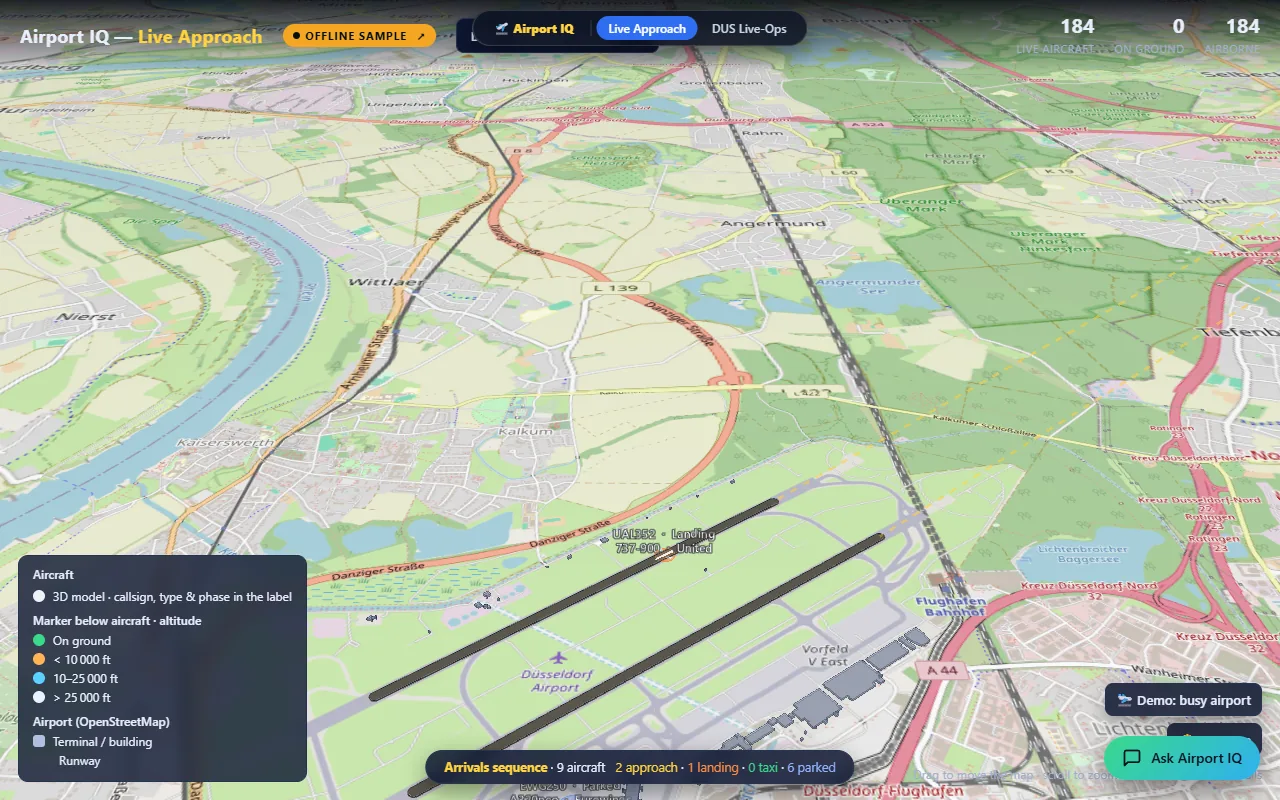
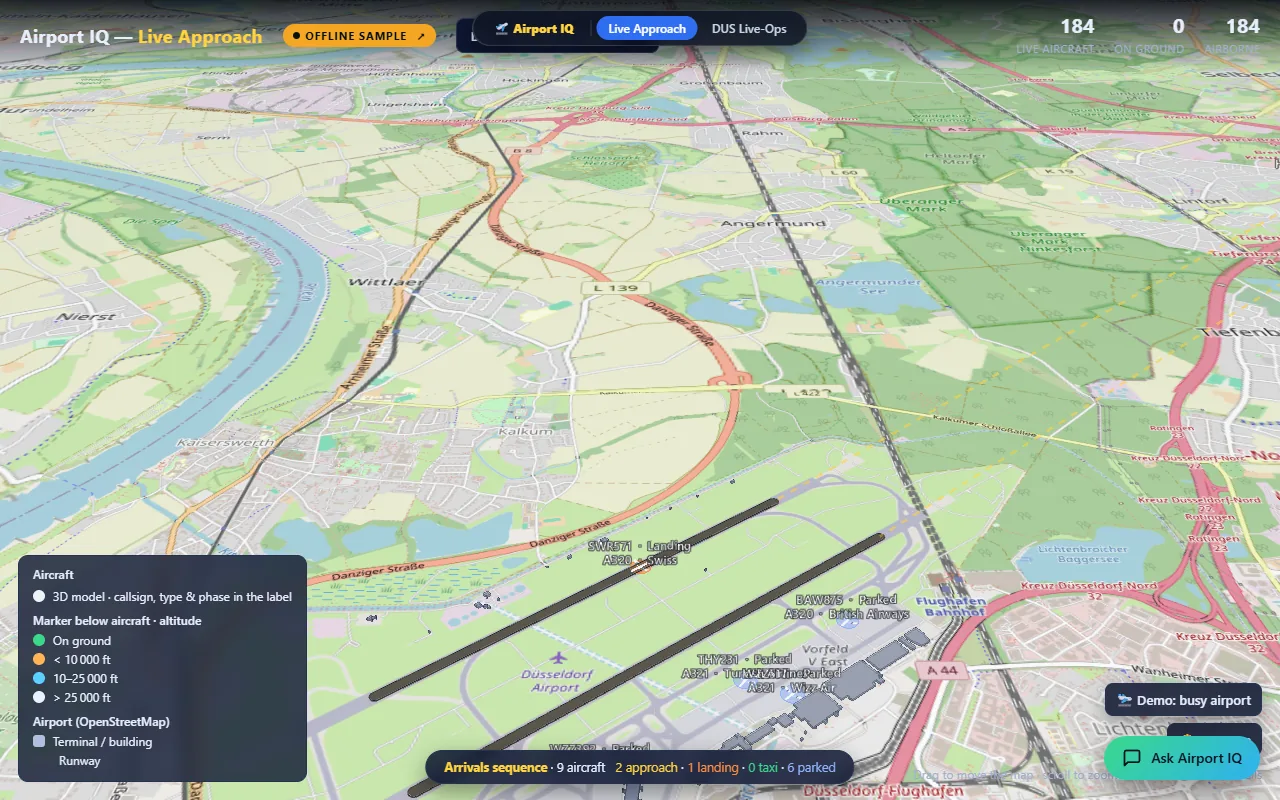
feat(docs): add previews and demo GIFs for all 15 apps
Phase 1e. 13 preview stills and 7 demo GIFs, 24.5 MB total, every file inside
the 25 MB budget and committed once.

The six Rayfin apps gate their whole UI behind a sign-in card, so serving dist
photographed a login screen. rayfin up is not the way past that - it prompts for
a Fabric workspace to deploy to, and Phase 0 removed that name deliberately. The
capture harness stubs bootstrapAuth at build time and reverts it in a finally
block, so no tenant can reach a public image.

maritime, flood and paragliding cannot render from a clean clone: the derived
terrain is excluded by design and they show their own 'terrain missing' card.
paragliding's geodata pipeline was run locally (~360 MB, gitignored) and it is
captured live; maritime and flood reuse media their authors made when the
terrain was present.

Every frame was reviewed. That caught a screenshot of an error card, DOOM's DOS
boot log instead of gameplay, a Klimaspirale frozen on a single year, a Jump &
Run demo ending on GAME OVER, and three GIFs opening on blank frames.

diff --git a/README.md b/README.md
@@ -16,11 +16,11 @@ you can deploy into your own workspace with one command.
 | | App | What it does |
 |---|---|---|
 | <img src="docs/previews/airport-iq.webp" width="220" alt="Airport IQ - Live Approach preview"> | **[Airport IQ - Live Approach](industry/airport-iq/)** | Live approach and ground operations on a photoreal 3D airport twin. |
-| <img src="docs/previews/_placeholder.webp" width="220" alt="Flood Insights preview"> | **[Flood Insights](industry/flood-insights/)** | Flood risk and gauge levels on a 3D terrain twin, with an IBCS Power BI report. |
+| <img src="docs/previews/flood-insights.webp" width="220" alt="Flood Insights preview"> | **[Flood Insights](industry/flood-insights/)** | Flood risk and gauge levels on a 3D terrain twin, with an IBCS Power BI report. |
 | <img src="docs/previews/_placeholder.webp" width="220" alt="Harbour Pulse preview"> | **[Harbour Pulse](industry/harbour-pulse/)** | Real-time ferry operations in Sydney Harbour on an Eventhouse-backed 3D map. |
 | <img src="docs/previews/_placeholder.webp" width="220" alt="Helsinki Public Transport preview"> | **[Helsinki Public Transport](industry/helsinki-public-transport/)** | Live tram and bus positions from the HSL feed, streamed through Real-Time Intelligence. |
-| <img src="docs/previews/_placeholder.webp" width="220" alt="Maritime Insights preview"> | **[Maritime Insights](industry/maritime-insights/)** | Vessel movements, port calls and cargo flows on a live maritime map. |
-| <img src="docs/previews/_placeholder.webp" width="220" alt="Paragliding Insights preview"> | **[Paragliding Insights](games-and-learn/paragliding-insights/)** | Photoreal 3D flight map of the Allgaeu Alps with real IGC tracks and live traffic. |
+| <img src="docs/previews/maritime-insights.webp" width="220" alt="Maritime Insights preview"> | **[Maritime Insights](industry/maritime-insights/)** | Vessel movements, port calls and cargo flows on a live maritime map. |
+| <img src="docs/previews/paragliding-insights.webp" width="220" alt="Paragliding Insights preview"> | **[Paragliding Insights](games-and-learn/paragliding-insights/)** | Photoreal 3D flight map of the Allgaeu Alps with real IGC tracks and live traffic. |
 
 ### 📊 Analytical Apps
 
@@ -37,9 +37,9 @@ Apps that inspect, document or administer the data platform itself.
 
 | | App | What it does |
 |---|---|---|
-| <img src="docs/previews/_placeholder.webp" width="220" alt="Data Catalog preview"> | **[Data Catalog](fabric-admin/data-catalog/)** | A browsable catalogue of every item in your Fabric tenant, with lineage and ownership. |
-| <img src="docs/previews/_placeholder.webp" width="220" alt="Governance Hub preview"> | **[Governance Hub](fabric-admin/governance-hub/)** | Tenant settings, capacity and access posture in one place, collected on a schedule. |
-| <img src="docs/previews/_placeholder.webp" width="220" alt="Power BI Fixer preview"> | **[Power BI Fixer](fabric-admin/pbi-fixer/)** | Scans a semantic model and report, finds what is broken, and fixes it. |
+| <img src="docs/previews/data-catalog.webp" width="220" alt="Data Catalog preview"> | **[Data Catalog](fabric-admin/data-catalog/)** | A browsable catalogue of every item in your Fabric tenant, with lineage and ownership. |
+| <img src="docs/previews/governance-hub.webp" width="220" alt="Governance Hub preview"> | **[Governance Hub](fabric-admin/governance-hub/)** | Tenant settings, capacity and access posture in one place, collected on a schedule. |
+| <img src="docs/previews/pbi-fixer.webp" width="220" alt="Power BI Fixer preview"> | **[Power BI Fixer](fabric-admin/pbi-fixer/)** | Scans a semantic model and report, finds what is broken, and fixes it. |
 
 ### 🎮 Games and Interactive Learning
 
@@ -47,10 +47,10 @@ Canvas and game-engine apps — proof there is no UI ceiling.
 
 | | App | What it does |
 |---|---|---|
-| <img src="docs/previews/_placeholder.webp" width="220" alt="Doom preview"> | **[Doom](games-and-learn/doom/)** | Doom running on Fabric - a WASM port with scores and telemetry in a Fabric SQL database. |
-| <img src="docs/previews/_placeholder.webp" width="220" alt="Fabric Empires preview"> | **[Fabric Empires](games-and-learn/fabric-empires/)** | A turn-based 4X strategy game whose entire game state lives in Fabric. |
-| <img src="docs/previews/_placeholder.webp" width="220" alt="IBCS Trainer preview"> | **[IBCS Trainer](games-and-learn/ibcs-trainer/)** | Learn the IBCS notation standard by fixing charts, stage by stage. |
-| <img src="docs/previews/_placeholder.webp" width="220" alt="Jump and Run preview"> | **[Jump and Run](games-and-learn/jump-and-run/)** | A canvas platformer with levels and high scores served from Fabric. |
+| <img src="docs/previews/doom.webp" width="220" alt="Doom preview"> | **[Doom](games-and-learn/doom/)** | Doom running on Fabric - a WASM port with scores and telemetry in a Fabric SQL database. |
+| <img src="docs/previews/fabric-empires.webp" width="220" alt="Fabric Empires preview"> | **[Fabric Empires](games-and-learn/fabric-empires/)** | A turn-based 4X strategy game whose entire game state lives in Fabric. |
+| <img src="docs/previews/ibcs-trainer.webp" width="220" alt="IBCS Trainer preview"> | **[IBCS Trainer](games-and-learn/ibcs-trainer/)** | Learn the IBCS notation standard by fixing charts, stage by stage. |
+| <img src="docs/previews/jump-and-run.webp" width="220" alt="Jump and Run preview"> | **[Jump and Run](games-and-learn/jump-and-run/)** | A canvas platformer with levels and high scores served from Fabric. |
 
 *15 apps. This table is generated by `tools/generate_index.py` from each app's `package.json` — edit the app, not the table.*
 

diff --git a/industry/maritime-insights/README.md b/industry/maritime-insights/README.md
@@ -5,8 +5,7 @@
 > Demonstration and illustration only. Not a navigational aid and not an authoritative source of
 > traffic or maritime domain information. Only official sources apply.
 
-<!-- TODO(phase-1e): no preview yet. Once `docs/previews/maritime-insights.webp` exists, replace this comment with:
-     ![Maritime Insights](../../docs/previews/maritime-insights.webp) -->
+![Maritime Insights](../../docs/previews/maritime-insights.webp)
 
 ![A sensor site placed on the west shore of the Kiel Fjord. The water it can see is tinted; the rest of the bay is in shadow. The panel reports 82 % of transits observed — 112 of 137 seen, 25 missed.](docs/screenshot-coverage.jpeg)
 

diff --git a/industry/education/hochschul-race/README.md b/industry/education/hochschul-race/README.md
@@ -5,6 +5,8 @@ built as a Microsoft Fabric static-hosting **Rayfin** app. Data comes from the
 **Hochschul-Insights** Direct Lake semantic model (DESTATIS GENESIS,
 
 ![Higher Education Race Chart](../../../docs/previews/hochschul-race.webp)
+
+![hochschul-race demo](../../../docs/media/hochschul-race-demo.gif)
 Datenlizenz Deutschland 2.0). A build-time snapshot is inlined into `index.html`
 so the app renders instantly and offline; an optional **⚡ Live-Daten** button
 re-queries the semantic model at runtime (see *Live data* below).

diff --git a/games-and-learn/paragliding-insights/README.md b/games-and-learn/paragliding-insights/README.md
@@ -5,8 +5,9 @@
 > ⚠ Demonstration and training only. Not flight preparation, not a weather briefing, and not an
 > authoritative source of airspace information.
 
-<!-- TODO(phase-1e): no preview yet. Once `docs/previews/paragliding-insights.webp` exists, replace this comment with:
-     ![Paragliding Insights](../../docs/previews/paragliding-insights.webp) -->
+![Paragliding Insights](../../docs/previews/paragliding-insights.webp)
+
+![paragliding-insights demo](../../docs/media/paragliding-insights-demo.gif)
 
 ---
 

diff --git a/games-and-learn/fabric-empires/README.md b/games-and-learn/fabric-empires/README.md
@@ -2,8 +2,7 @@
 
 **A turn-based 4X strategy game whose tech tree is a certification syllabus.**
 
-<!-- TODO(phase-1e): no preview yet. Once `docs/previews/fabric-empires.webp` exists, replace this comment with:
-     ![Fabric Empires](../../docs/previews/fabric-empires.webp) -->
+![Fabric Empires](../../docs/previews/fabric-empires.webp)
 
 You explore a procedurally generated hex map, found cities, work tiles for four
 resources, research a technology tree and fight rivals over it. That is the 4X

diff --git a/games-and-learn/doom/README.md b/games-and-learn/doom/README.md
@@ -1,7 +1,8 @@
 # Doom (Rayfin) — "But can it run Doom?" on Microsoft Fabric
 
-<!-- TODO(phase-1e): no preview yet. Once `docs/previews/doom.webp` exists, replace this comment with:
-     ![Doom](../../docs/previews/doom.webp) -->
+![Doom](../../docs/previews/doom.webp)
+
+![doom demo](../../docs/media/doom-demo.gif)
 
 DOOM running as a **Fabric App**: the classic game booted in the browser through
 [js-dos](https://js-dos.com/) / DOSBox, wrapped in a Fabric-authenticated

diff --git a/industry/flood-insights/README.md b/industry/flood-insights/README.md
@@ -5,8 +5,9 @@
 > ⚠ **Demonstration and training purposes only. Not a real risk assessment and not a basis for
 > insurance or financing decisions.**
 
-<!-- TODO(phase-1e): no preview yet. Once `docs/previews/flood-insights.webp` exists, replace this comment with:
-     ![Flood Insights](../../docs/previews/flood-insights.webp) -->
+![Flood Insights](../../docs/previews/flood-insights.webp)
+
+![flood-insights demo](../../docs/media/flood-insights-demo.gif)
 
 ---
 

diff --git a/fabric-admin/governance-hub/README.md b/fabric-admin/governance-hub/README.md
@@ -2,8 +2,7 @@
 
 **Who may create what, where — and why.**
 
-<!-- TODO(phase-1e): no preview yet. Once `docs/previews/governance-hub.webp` exists, replace this comment with:
-     ![Governance Hub](../../docs/previews/governance-hub.webp) -->
+![Governance Hub](../../docs/previews/governance-hub.webp)
 
 A self-hosted governance accelerator for Microsoft 365, Fabric and Power Platform.
 It answers one question no single Microsoft admin surface can answer today:

diff --git a/fabric-admin/data-catalog/README.md b/fabric-admin/data-catalog/README.md
@@ -1,7 +1,6 @@
 # Data Catalog — Rayfin App
 
-<!-- TODO(phase-1e): no preview yet. Once `docs/previews/data-catalog.webp` exists, replace this comment with:
-     ![Data Catalog](../../docs/previews/data-catalog.webp) -->
+![Data Catalog](../../docs/previews/data-catalog.webp)
 
 A Fabric-wide catalog of Power BI **reports**, **semantic models**, and their **KPIs**
 (measures / columns), with reverse lookup (which KPI is used in which report), lineage,

diff --git a/games-and-learn/jump-and-run/README.md b/games-and-learn/jump-and-run/README.md
@@ -1,7 +1,8 @@
 # Jump & Run (Rayfin)
 
-<!-- TODO(phase-1e): no preview yet. Once `docs/previews/jump-and-run.webp` exists, replace this comment with:
-     ![Jump and Run](../../docs/previews/jump-and-run.webp) -->
+![Jump and Run](../../docs/previews/jump-and-run.webp)
+
+![jump-and-run demo](../../docs/media/jump-and-run-demo.gif)
 
 The single-file HTML5 Canvas platformer
 ([`jump_and_run_v2.html`](public/game/jump_and_run_v2.html)) embedded in a

diff --git a/games-and-learn/ibcs-trainer/README.md b/games-and-learn/ibcs-trainer/README.md
@@ -1,7 +1,6 @@
 # IBCS Trainer (Rayfin)
 
-<!-- TODO(phase-1e): no preview yet. Once `docs/previews/ibcs-trainer.webp` exists, replace this comment with:
-     ![IBCS Trainer](../../docs/previews/ibcs-trainer.webp) -->
+![IBCS Trainer](../../docs/previews/ibcs-trainer.webp)
 
 A single-file HTML5 Canvas platformer
 ([`ibcs_trainer.html`](public/game/ibcs_trainer.html)) that teaches IBCS chart

diff --git a/industry/dwd-klimaspirale/README.md b/industry/dwd-klimaspirale/README.md
@@ -20,6 +20,8 @@ and scaling are computed in the browser from the committed `data/*.json`.
 
 ![Karte view — interpolated temperature-anomaly heat map of Germany for 2018 (+3.0 °C vs 1961–1990)](docs/screenshots/dwd-karte-temperatur.png)
 
+![dwd-klimaspirale demo](../../docs/media/dwd-klimaspirale-demo.gif)
+
 ## What it does
 
 - A tilted climate spiral of yearly temperature anomaly
